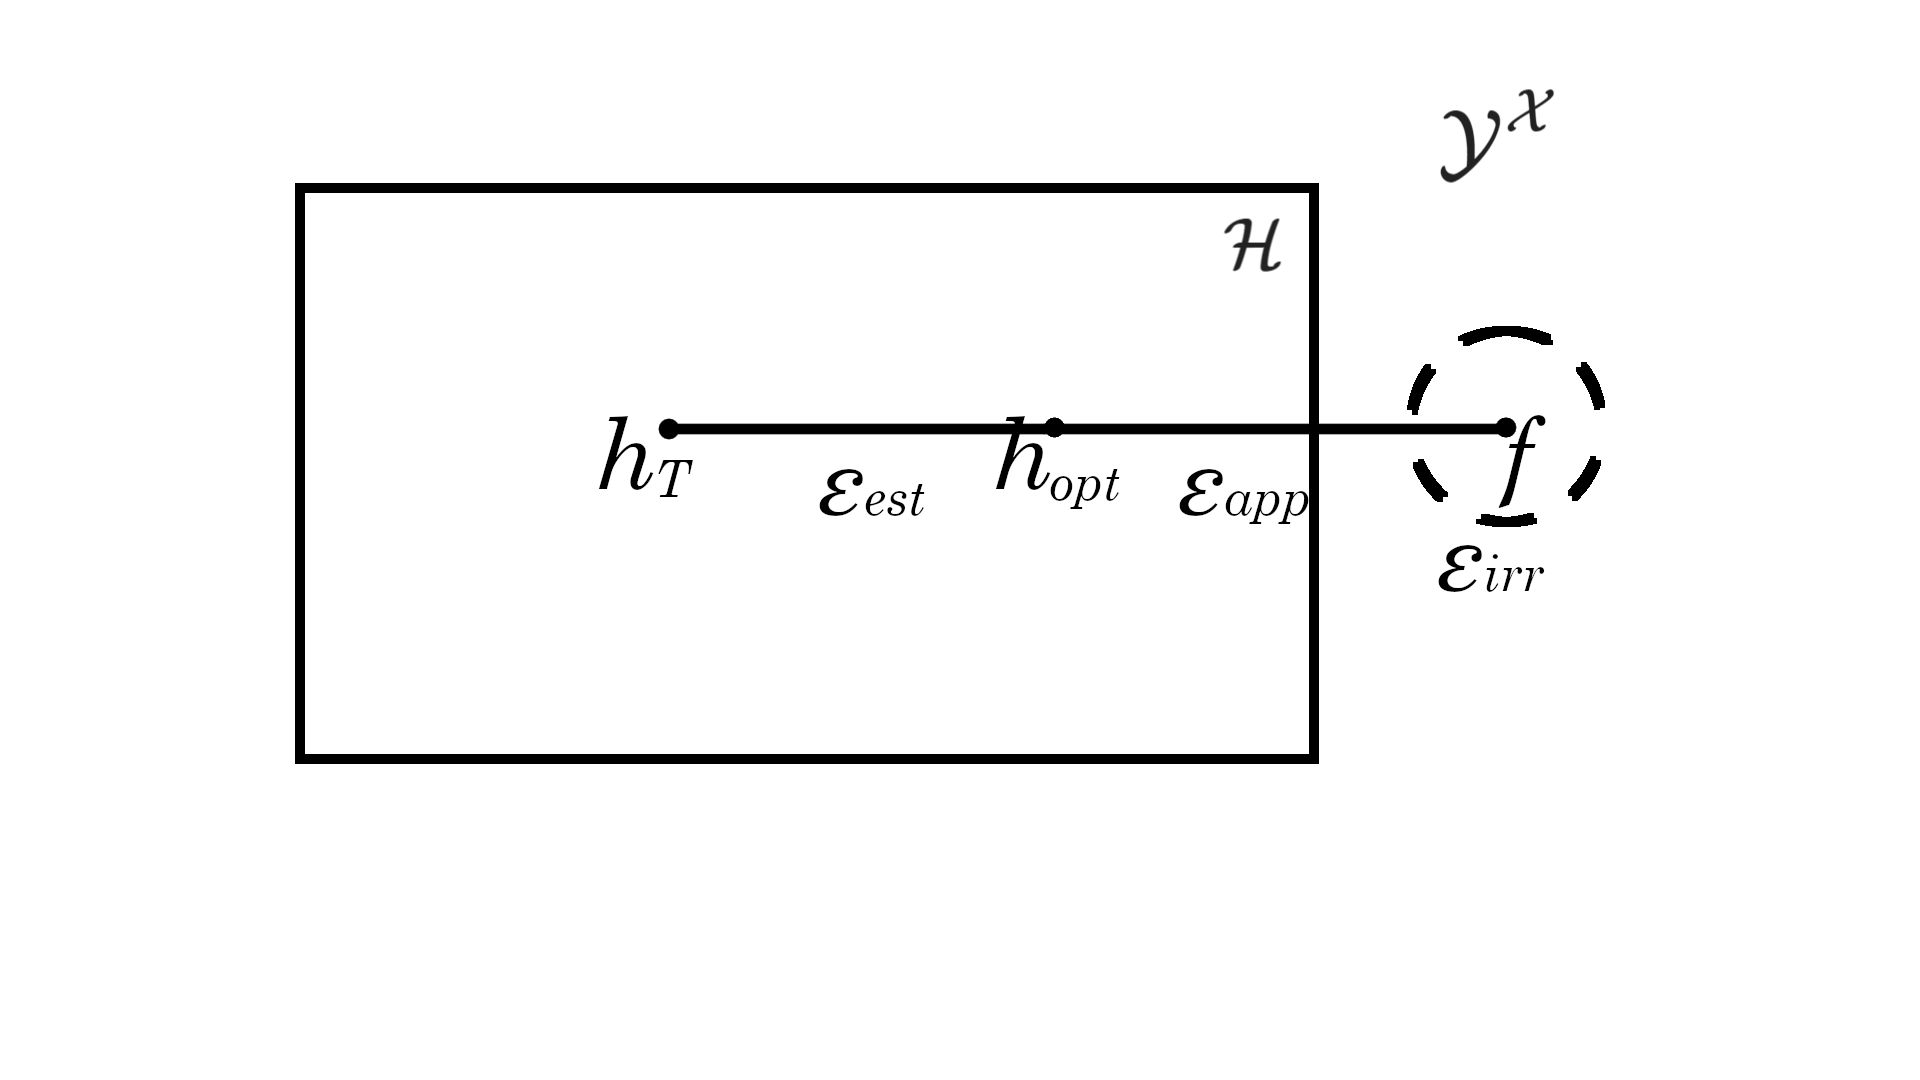
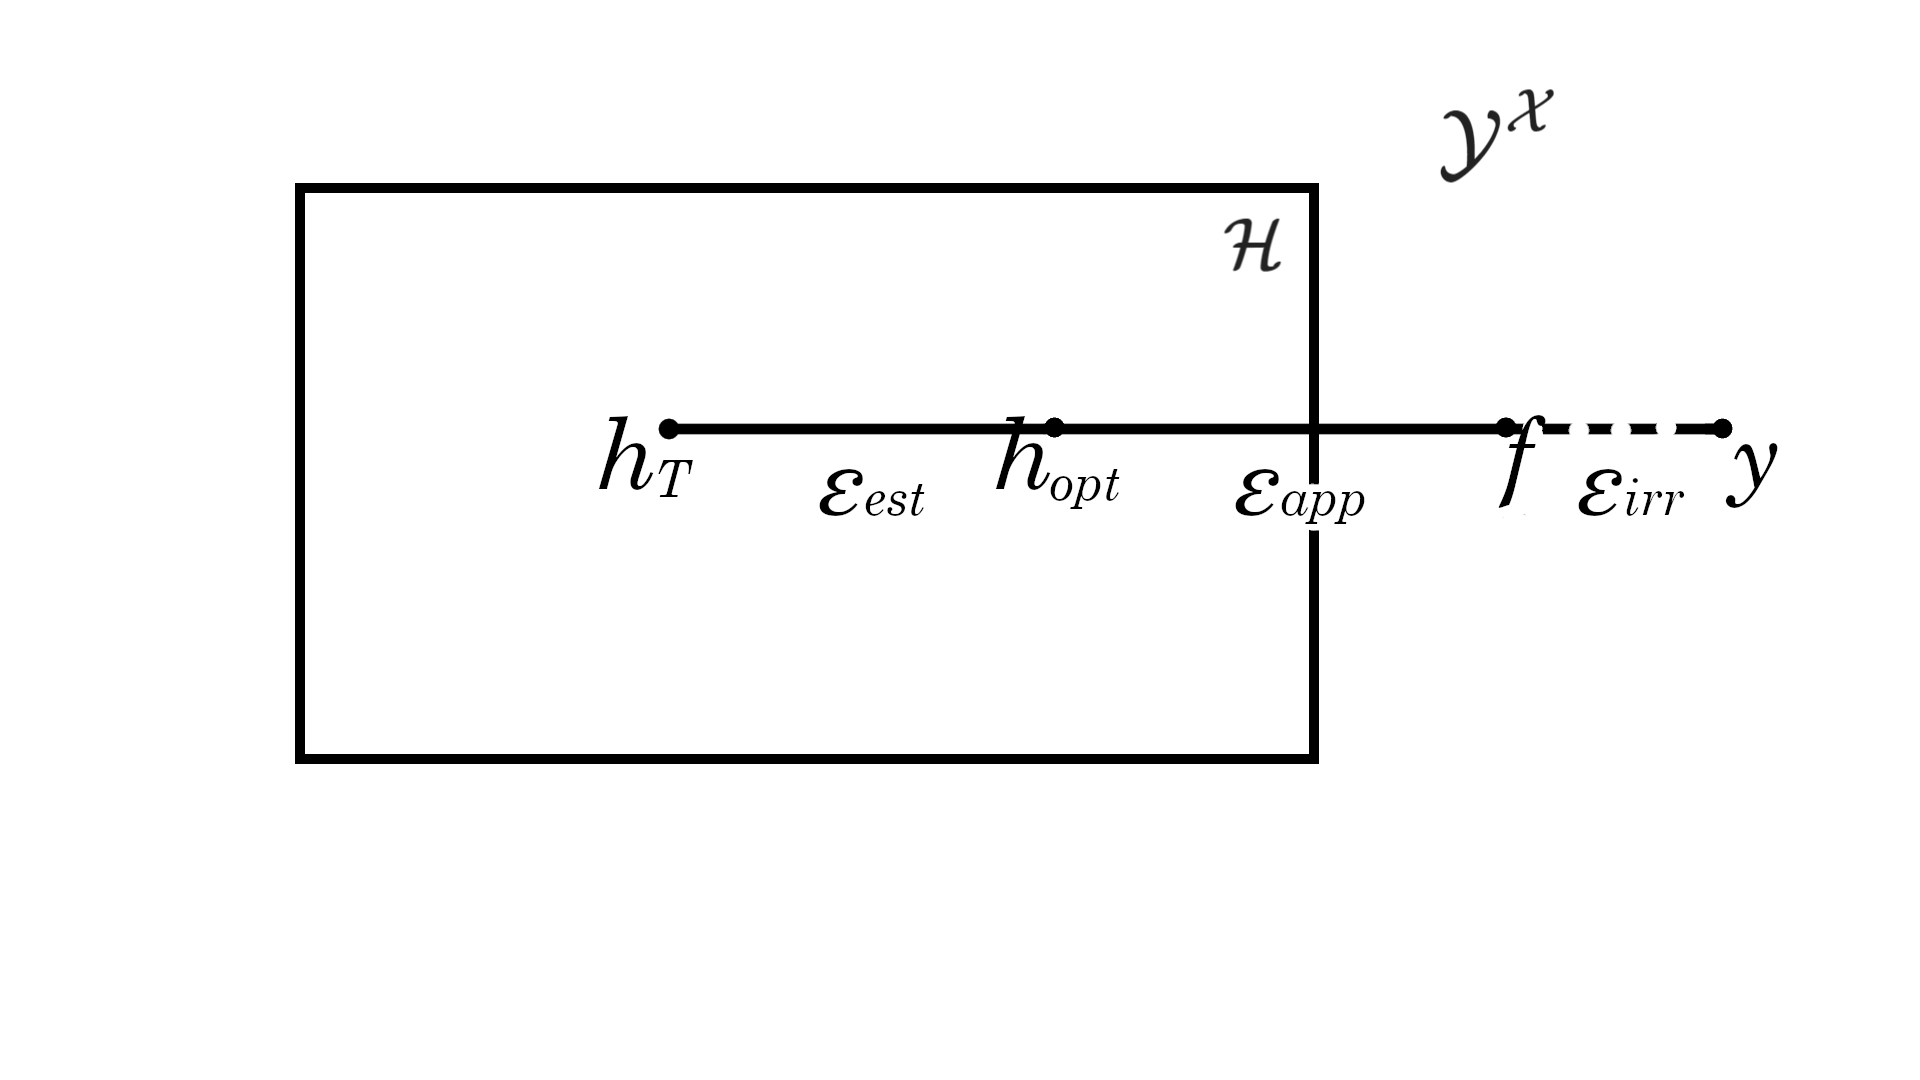
Improves error decomposition scheme

diff --git a/c07_pac_learning/c07_pac_learning.html b/c07_pac_learning/c07_pac_learning.html
@@ -759,7 +759,7 @@ P_X\left[T: Err_{P_X, f}(ERM_\mathcal{H}(T)) &gt; \varepsilon\right] &amp;\leq P
 <aside class="notes">
 <div style="direction:rtl; font-size:16px">
 <p>ועדיין אנחנו לא לגמרי מרוצים. גם אנחנו יודעים שעולם הלמידה מורכב מעוד בעיות חוץ מקלסיפיקציה בינארית, גם יש לנו אישיו עם העובדה שמגבילים אותנו למרחבים סופיים של השערות, הרי אפילו ברגרסיה ליניארית פשוטה כל אחד מהמקדמים יכול להיות על פני כל הישר הממשי, שהוא מרחב אינסופי של אפשרויות. אבל אולי הכי אקוטי, אנחנו מתקשים להאמין להנחת הריאלייזביליטי, האם אנחנו מצופים להאמין שתמיד תמיד, שתי מהנדסות עם אותו ניסיון, אותו גיל, השכלה, תפקיד ואפילו אותו מקום עבודה יקבלו אותו שכר?</p>
-<p>המודל שאנחנו רגילים לראות לדוגמא עם פירוק ביאס-וריאנס, הוא יותר משהו מהסגנון שאנחנו רואים בסכמה הזאת. הפונקציה האמיתית f קודם כל לא חייבת להיות במרחב שבו אנחנו מחפשים את המודל h. היא יכולה להיות מחוצה לו. עכשיו אם היא מחוצה לו, זה כבר אומר שיש איזה מודל אופטימלי שניתן להשיג בתוך מרחב H שמגביל אותנו, ובין השניים יש איזושהי שגיאת קירוב או ביאס. וגם אם אנחנו מחפשים דווקא בתוך מרחב H, אנחנו מובלים על-ידי המדגם שלנו אל מודל hT, כשטי מגיע מהמדגם למידה הספציפי שלנו, טריינינג. למה המודל שהמדגם הספציפי שלנו יהיה רחוק מהמודל האופטימלי שאפשר להגיע אליו במרחב H? שגיאת אמידה, או: שונות. המהדרין יוסיפו כאן אפילו עוד h עם סימון alg מלשון אלגוריתם, כלומר יוסיפו בחשבון שגם האלגוריתם עצמו שבחרנו כדי לעשות מינימום לשגיאה יוסיף רעש. לבסוף, אנחנו גם סקפטים שיש פונקציה f אמיתית שמתאימה לכל ערך X את ערך הY שלו, או שאנחנו רוצים לקחת בחשבון שאין לנו את היכולת לאמוד אותה כל כך ספציפי, כלומר שגם סביב f האמיתית יש איזשהו רעש שלא נצליח למדל. לרעש הזה קראנו האירדוסיבל ארור, ברגרסיה סימנו אותו כסיגמה בריבוע.</p>
+<p>המודל שאנחנו רגילים לראות לדוגמא עם פירוק ביאס-וריאנס, הוא יותר משהו מהסגנון שאנחנו רואים בסכמה הזאת. הפונקציה האמיתית f קודם כל לא חייבת להיות במרחב שבו אנחנו מחפשים את המודל h. היא יכולה להיות מחוצה לו. עכשיו אם היא מחוצה לו, זה כבר אומר שיש איזה מודל אופטימלי שניתן להשיג בתוך מרחב H שמגביל אותנו, ובין השניים יש איזושהי שגיאת קירוב או ביאס. וגם אם אנחנו מחפשים דווקא בתוך מרחב H, אנחנו מובלים על-ידי המדגם שלנו אל מודל hT, כשטי מגיע מהמדגם למידה הספציפי שלנו, טריינינג. למה המודל שהמדגם הספציפי שלנו יהיה רחוק מהמודל האופטימלי שאפשר להגיע אליו במרחב H? שגיאת אמידה, או: שונות. המהדרין יוסיפו כאן אפילו עוד h עם סימון alg מלשון אלגוריתם, כלומר יוסיפו בחשבון שגם האלגוריתם עצמו שבחרנו כדי לעשות מינימום לשגיאה יוסיף רעש, למשל אם אנחנו חייבים לבחור באלגוריתם יעיל על הנתונים שלנו, שיחזיר תשובה גם אם הוא לא אופטימלי. לבסוף, אנחנו גם סקפטים שיש פונקציה f אמיתית שמתאימה לכל ערך X את ערך הY שלו, או שאנחנו רוצים לקחת בחשבון שאין לנו את היכולת לאמוד אותה כל כך ספציפי, כלומר שגם סביב f האמיתית יש איזשהו רעש שלא נצליח למדל. לרעש הזה קראנו האירדוסיבל ארור, ברגרסיה סימנו אותו כסיגמה בריבוע.</p>
 <p>אז היינו רוצים לראות מושג של למידות או לרנביליטי קצת פחות נוקשה, שמאפשר לדבר בדיוק במושגים האלה, וזה מה שנראה בחלק הבא.</p>
 </div>
 <style type="text/css">
